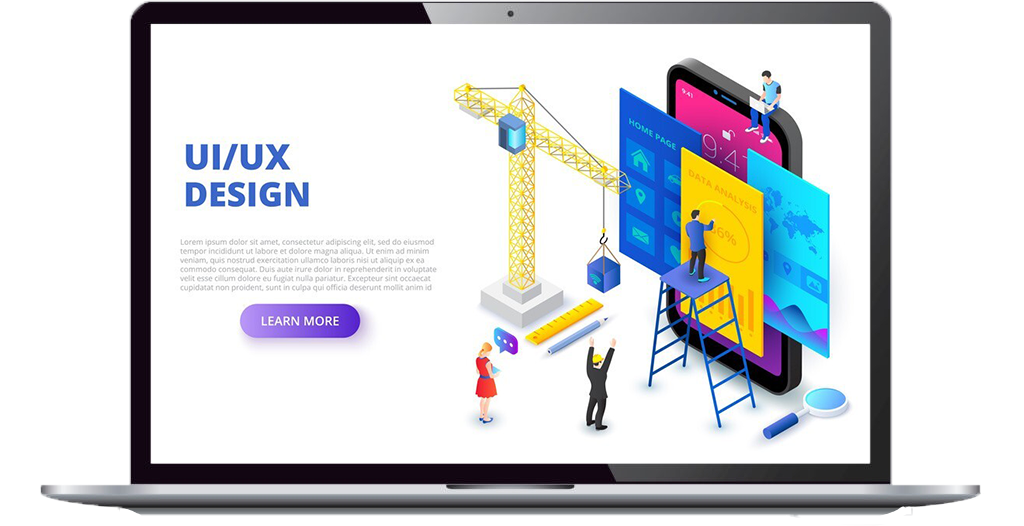
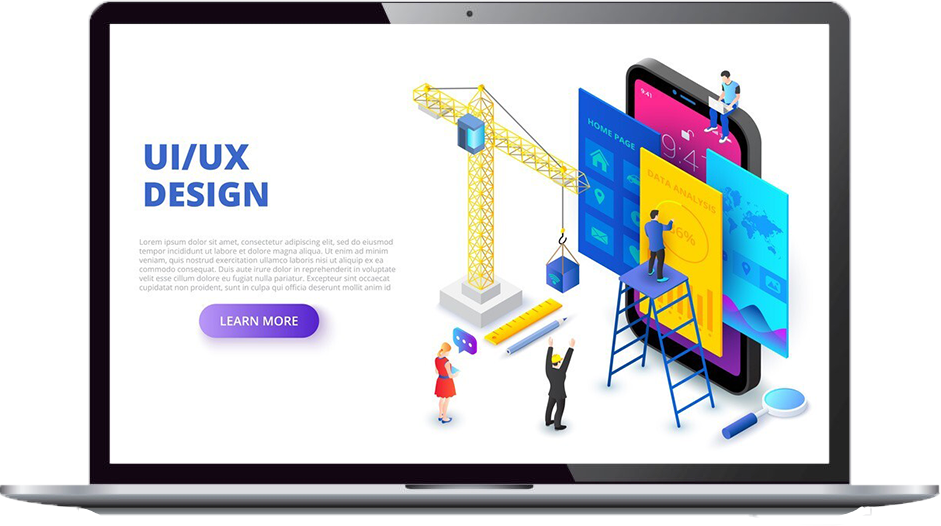
blue color

diff --git a/index.html b/index.html
@@ -26,11 +26,12 @@
 
             <button data-bs-toggle="collapse" class="navbar-toggler" data-bs-target="#navcol-1">
               <span class="visually-hidden">Toggle navigation</span>
-              <span class="navbar-toggler-icon"></span>
+              <!-- <span class="navbar-toggler-icon"></span> -->
+              <img src="assets/img/menu.png" alt="" />
             </button>
 
             <div class="collapse navbar-collapse" id="navcol-1">
-              <ul class="navbar-nav me-auto align-items-center">
+              <ul class="navbar-nav ml-auto align-items-center">
                 <li class="nav-item">
                   <a class="nav-link" href="#">Home</a>
                 </li>
@@ -47,23 +48,22 @@
                   <a class="nav-link" href="#">Team</a>
                 </li>
               </ul>
-              <a class="btn nav-link contact_btn" role="button" href="#">Contact</a>
             </div>
+
           </div>
         </nav>
-        <!-- nav end -->
+        <!-- nav end  -->
         <div class="row">
-          <div class="col-12 col-xl-6 col-xxl-6 col-lg-6 col-sm-12 col-md-6 d-flex justify-content-center flex-column align-items-center align-items-xl-start align-items-md-start align-items-xxl-start align-items-lg-start align-items-sm-center">
-            <h1 class="text-uppercase mb-5 text-center text-sm-center text-md-start text-lg-start text-xl-start text-xxl-start">UI UX Design and Development</h1>
+          <div class="col-12 col-xl-5 col-xxl-5 col-lg-5 col-sm-12 col-md-5 d-flex justify-content-center flex-column align-items-center align-items-xl-start align-items-md-start align-items-xxl-start align-items-lg-start align-items-sm-center mt-5 mb-5">
+            <h1 class="text-uppercase mb-4 mt-5 text-center text-sm-center text-md-start text-lg-start text-xl-start text-xxl-start">UI UX Design<br />& Development</h1>
             <p class="mb-5 text-center text-sm-center text-md-start text-lg-start text-xl-start text-xxl-start">
-              Lorem Ipsum is simply dummy text of the printing and typesetting industry. Lorem Ipsum has been the industry's standard dummy text ever since the 1500s, when an unknown printer took a galley of type and scrambled it to make a type
-              specimen book. It has survived not only five centuries
+              Lorem Ipsum is simply dummy text of the printing and typesetting industry. Lorem Ipsum has been the industry's standard dummy text ever since the 1500s.
             </p>
             <a href="#" class="mb-5 btn our_btn text-uppercase">Get Started</a>
           </div>
           <!-- hero img  -->
-          <div class="col-12 col-xl-6 col-xxl-6 col-lg-6 col-sm-12 col-md-6 d-flex justify-content-center align-items-center">
-            <img class="img-fluid hero_img" src="assets/img/laptop.png" />
+          <div class="col-12 col-xl-7 col-xxl-7 col-lg-7 col-sm-12 col-md-7 d-flex justify-content-center align-items-center">
+            <img class="img-fluid hero_img mt-5 mb-5" src="assets/img/laptop.png"/>
           </div>
         </div>
       </div>
@@ -74,57 +74,51 @@
       <div class="container">
         <!-- about us  -->
         <div class="row">
-          <div class="col-12 col-xl-6 col-xxl-6 col-lg-6 col-sm-12 col-md-6 d-flex justify-content-center flex-column align-items-center align-items-xl-start align-items-md-start align-items-xxl-start align-items-lg-start align-items-sm-center">
+          <div class="col-12 col-xl-6 col-xxl-6 col-lg-6 col-sm-12 col-md-6 d-flex justify-content-center flex-column align-items-center align-items-xl-start align-items-md-start align-items-xxl-start align-items-lg-start align-items-sm-center mt-5 mb-5">
             <p class="text-center text-sm-center text-md-start text-lg-start text-xl-start text-xxl-start red_text">About Us</p>
             <h2 class="mb-4 text-center text-sm-center text-md-start text-lg-start text-xl-start text-xxl-start">We Lead From the font</h2>
             <p class="mb-4 text-center text-sm-center text-md-start text-lg-start text-xl-start text-xxl-start">
-              Lorem Ipsum is simply dummy text of the printing and typesetting industry. Lorem Ipsum has been the industry's standard dummy text ever since the 1500s
+              Lorem Ipsum is simply dummy text of the printing and typesetting industry. Lorem Ipsum has been the industry's standard dummy text ever since the 1500s.
             </p>
             <p class="mb-4 text-center text-sm-center text-md-start text-lg-start text-xl-start text-xxl-start">Lorem Ipsum is simply dummy text of the printing and typesetting industry. Lorem Ipsum has been the industry</p>
             <div class="mt-4 d-flex flex-row">
               <a href="#" class="our_btn">Learn More</a>&nbsp;&nbsp;
-              <div>
-                <svg xmlns="http://www.w3.org/2000/svg" width="55" height="55" fill="currentColor" class="bi bi-play-circle-fill" viewBox="0 0 16 16">
-                  <path d="M16 8A8 8 0 1 1 0 8a8 8 0 0 1 16 0zM6.79 5.093A.5.5 0 0 0 6 5.5v5a.5.5 0 0 0 .79.407l3.5-2.5a.5.5 0 0 0 0-.814l-3.5-2.5z" />
-                </svg>
-                <a class="watch_btn" href="#">Watch Video</a>
-              </div>
             </div>
           </div>
-          <div class="col col-12 col-xl-6 col-xxl-6 col-lg-6 col-sm-12 col-md-6 d-flex justify-content-center align-items-center">
-            <img class="img-fluid hero_img" src="assets/img/team.png" />
+          <div class="col col-12 col-xl-6 col-xxl-6 col-lg-6 col-sm-12 col-md-6 d-flex justify-content-center align-items-center mt-5 mb-5">
+            <img class="img-fluid hero_img w-75" src="assets/img/team.png" />
           </div>
         </div>
       </div>
 
       <div class="container">
         <div class="row">
-          <div class="col d-flex align-items-center justify-content-center flex-column">
-            <h2 class="mb-3 text-center">UI UX Design and Development</h2>
+          <div class="col d-flex align-items-center justify-content-center flex-column mt-5 mb-5">
+            <h2 class="text-center">UI UX Design and Development</h2>
             <p class="mb-5 text-center w-75">Some of the features and advantages that we provide for those who store data in this Data Warehouse</p>
           </div>
         </div>
         <!-- cards start -->
-        <div class="row d-flex flex-row align-items-end mt-5 mb-5">
+        <div class="row d-flex flex-row align-items-end mb-5">
           <div class="col col-12 col-sm-12 col-md-6 col-lg-4 col-xl-4 col-xxl-4">
             <div class="d-flex flex-column justify-content-center align-items-center text-center p-5 our_card">
-              <img class="img-fluid w-90" src="assets/img/monitor-illustration.png" />
+              <img class="img-fluid w-90" src="assets/img/1.png" />
               <h2 class="mt-4 mb-3">UX Design</h2>
-              <p>Lorem Ipsum is simply dummy text of the printing and typesetting industry. Lorem Ipsum has been the industry.</p>
+              <p>Lorem Ipsum is simply dummy text of the printing and typesetting industry.</p>
             </div>
           </div>
           <div class="col col-12 col-sm-12 col-md-6 col-lg-4 col-xl-4 col-xxl-4">
             <div class="d-flex flex-column justify-content-center align-items-center text-center p-5 our_card">
-              <img class="img-fluid w-75" src="assets/img/browser_illustrations.png" />
+              <img class="img-fluid w-90" src="assets/img/2.png" />
               <h2 class="mt-4 mb-3">UX Design</h2>
-              <p>Lorem Ipsum is simply dummy text of the printing and typesetting industry. Lorem Ipsum has been the industry.</p>
+              <p>Lorem Ipsum is simply dummy text of the printing and typesetting industry.</p>
             </div>
           </div>
           <div class="col col-12 col-sm-12 col-md-6 col-lg-4 col-xl-4 col-xxl-4">
             <div class="d-flex flex-column justify-content-center align-items-center text-center p-5 our_card">
-              <img class="img-fluid w-90" src="assets/img/guy-cat-illustration.png" />
+              <img class="img-fluid w-90" src="assets/img/3.png" />
               <h2 class="mt-4 mb-3">UX Design</h2>
-              <p>Lorem Ipsum is simply dummy text of the printing and typesetting industry. Lorem Ipsum has been the industry.</p>
+              <p>Lorem Ipsum is simply dummy text of the printing and typesetting industry.</p>
             </div>
           </div>
         </div>

diff --git a/assets/css/style.scss b/assets/css/style.scss
@@ -1,6 +1,6 @@
 $primary-font: "Poppins", sans-serif;
 $primary-color: #233d62;
-$secondary-color: #fe6347;
+$secondary-color: #9d4ffd;
 $tirtiary-color: #727b99;
 
 @mixin title {
@@ -13,48 +13,34 @@ $tirtiary-color: #727b99;
   font-family: "Lora", serif;
   font-size: 1.25rem;
   color: $tirtiary-color;
+  line-height: 1.6rem;
 }
 @mixin btn_effect {
   color: white;
   background-color: $secondary-color;
   border-radius: 2rem;
   font-family: $primary-font;
-  padding: 1rem 3rem;
+  padding: 0.7rem 2.4rem;
   text-decoration: none;
   &:hover {
-    border: 2px solid #233d62;
+    border: 2px solid $primary-color;
     background-color: white;
-    color: #233d62;
+    color: $primary-color;
   }
 }
-
 body {
   li {
     font-family: $primary-font;
-    color: #727b99;
+    color: white;
     &:hover {
-      color: #233d62;
+      color: #fff;
       font-weight: 700;
       transition-duration: 0.2s;
     }
   }
-  .contact_btn {
-    color: white;
-    background-color: $secondary-color;
-    border-radius: 2rem;
-    font-family: $primary-font;
-    padding: 0.7rem 2rem;
-    text-decoration: none;
-    &:hover {
-      border: 2px solid #233d62;
-      background-color: white;
-      color: #233d62;
-      font-weight: 500;
-    }
-  }
   h1 {
     font-family: $primary-font;
-    font-size: 3rem;
+    font-size: 2.4rem;
     color: $primary-color;
     font-weight: bold;
   }
@@ -71,11 +57,6 @@ body {
     box-shadow: 0 0 20px #233d6254;
     border-radius: 2rem;
     transition-duration: 0.3s;
-  }
-  .watch_btn {
-    color: $primary-color;
-    font-family: $primary-font;
-    text-decoration: none;
   }
   .red_text {
     color: $secondary-color;

diff --git a/assets/css/style.css b/assets/css/style.css
@@ -1,34 +1,18 @@
 body li {
   font-family: "Poppins", sans-serif;
-  color: #727b99;
+  color: white;
 }
 
 body li:hover {
-  color: #233d62;
+  color: #fff;
   font-weight: 700;
   -webkit-transition-duration: 0.2s;
           transition-duration: 0.2s;
 }
 
-body .contact_btn {
-  color: white;
-  background-color: #fe6347;
-  border-radius: 2rem;
-  font-family: "Poppins", sans-serif;
-  padding: 0.7rem 2rem;
-  text-decoration: none;
-}
-
-body .contact_btn:hover {
-  border: 2px solid #233d62;
-  background-color: white;
-  color: #233d62;
-  font-weight: 500;
-}
-
 body h1 {
   font-family: "Poppins", sans-serif;
-  font-size: 3rem;
+  font-size: 2.4rem;
   color: #233d62;
   font-weight: bold;
 }
@@ -44,11 +28,12 @@ body p {
   font-family: "Lora", serif;
   font-size: 1.25rem;
   color: #727b99;
+  line-height: 1.6rem;
 }
 
 body .our_btn {
   color: white;
-  background-color: #fe6347;
+  background-color: #9d4ffd;
   border-radius: 2rem;
   font-family: "Poppins", sans-serif;
   padding: 1rem 3rem;
@@ -69,14 +54,8 @@ body .our_card:hover {
           transition-duration: 0.3s;
 }
 
-body .watch_btn {
-  color: #233d62;
-  font-family: "Poppins", sans-serif;
-  text-decoration: none;
-}
-
 body .red_text {
-  color: #fe6347;
+  color: #9d4ffd;
   font-family: "Poppins", sans-serif;
   line-height: 0%;
   font-size: 1rem;
@@ -92,7 +71,7 @@ body .work_effect {
 }
 
 body .work_effect:hover {
-  color: #fe6347;
+  color: #9d4ffd;
 }
 
 body .label_text {
